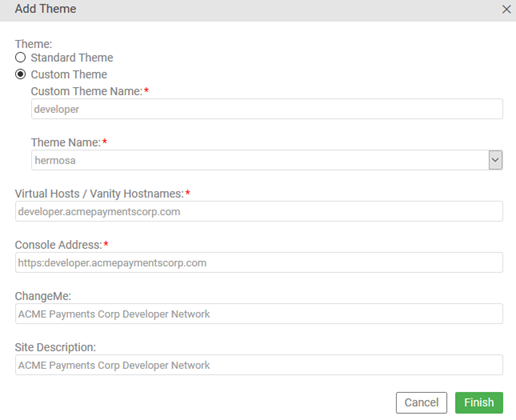
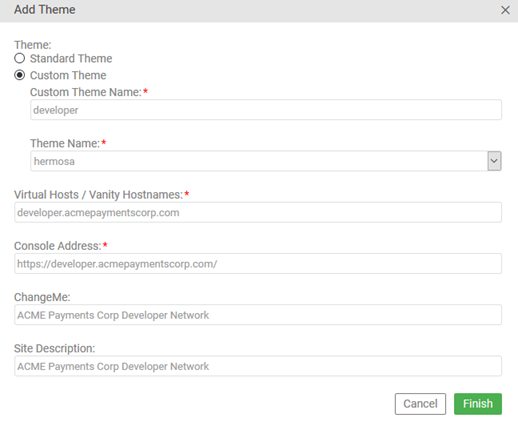
ATMO-31831 edits from AB w/queries

diff --git a/cm/customization/customize_example_separate_themes.htm b/cm/customization/customize_example_separate_themes.htm
@@ -10,7 +10,7 @@ type: page
 nav-title: Customization Example - Separate Themes
 ---
 <h1 id="top">Community Manager Customization Use Case: Separating the Developer Portal and Admin Portal Themes</h1>
-<p>Use case describing the steps required to separate a customized Developer theme from the theme being used on the Admin Portal.</p>
+<p>Use case describing the steps required to create <strong>developer</strong> theme and <strong>admin</strong> theme, both extending from Hermosa theme. The <strong>developer</strong> theme has customization and the <strong>admin</strong> theme does not have customization.</p>
 <hr class="divide_hr" />
 
 
@@ -28,30 +28,37 @@ nav-title: Customization Example - Separate Themes
 
 
 <h2 id="overview">Overview</h2>
-<p>The following instructions describe the steps to take in a sample use case where:</p>
+<p>The following instructions describe the steps to take in a sample use case where&nbsp;there are two themes:	</p>
 <ul>
-	<li>There are two themes, one for developers (Developer) and one for admins (Admin Portal).</li>
-	<li>Customization is in place.</li>
-	<li>You want to separate out the Developer theme, which is customized, and the Admin Portal theme, which will now use the Hermosa Theme template without customization.</li>
+<li>	One for Site Administrators, using Hermosa theme. Customization is optional.</li>
+<li>One for all other users (mainly app developers), using Hermosa theme, with customization.</li>
 </ul>
-<p>These instructions apply to the Akana developer portal, 2019.1.x release.</p>
-<p><strong>Note</strong>: It's important that the Admin Portal is accessible at all times. If possible, assign the IP address for the Admin Portal to the default theme, so that if there are any issues when modifying the theme, the Admin Portal will be accessible.</p>
-<p>If the developer portal is accessible using the IP address, modify the virtual host for the Admin portal on the default theme.</p>
-<p>{<span class="apidoc_red">CR01: don't understand the above. We said we're using Hermosa Theme. By Default Theme, does this mean Hermosa here?</span>}</p>
-<p>The steps below describe how to separate out the two themes for each of the portals.</p>
 <p><a href="#top">Back to top</a></p>
 
 
 
 <h2 id="backup_prep">Backup and Preparation</h2>
-<p>The first step is preparation so that if anything goes wrong you can revert to the previous state. Follow the steps below.</p>
+<p>It's important to be prepared so that if anything goes wrong you can revert to the previous state, or fix as needed.</p>
+
+
+<h3 id="backup">Preparation:</h3>
+<ol>
+	<li>It's important that the Admin Portal is accessible at all times. In case there is any error or issue with creating new themes, this is the back door so that you can fix as needed. One easy way to do is to add a Default theme and assign a virtual host with Site Admin domain access which will not be used in the new themes. The virtual host should be unique per theme. If you already have a Default theme, make sure Site Admin access is available.</li>
+	<li>The new <strong>developer</strong> and <strong>admin</strong> themes must have unique virtual host names. Make sure you have you have them ready.<strong> <span class="apidoc_red">“admin” theme Virtual Host names should be configured to Site Admin Domains</span>.</strong></li>
+</ol>
+
+
+<h3 id="preparation">Backup:</h3>
+<p> To back up the existing files, follow the steps below.</p>
 <ol>
 	<li>Log in to the Admin Portal.</li>
 	<li>Go to <strong>Admin</strong> &gt; <strong>Config</strong> &gt; <strong>Resources</strong>.</li>
 	<li>In the <strong>Resources</strong> section, click <strong>File Manager</strong>. Download the customization files to a safe location.	</li>
 	<li>In <strong>Admin</strong> &gt; <strong>Site</strong>:
 <ul>
-			<li>Do <strong>not</strong> delete the existing Default and Hermosa themes.</li>
+			<li>Make sure you added out-of-the-box Hermosa theme as one of the themes. This is required to support extending from Hermosa theme. This dependency will be removed from 2019.1.11. {<span class="apidoc_red">AB: you're not talking about the installation option... right? Please clarify what the change is.</span>}</li>
+			<li>If the Virtual Host/Vanity Hostnames which we will be using for new <strong>admin</strong> theme and“<strong>developer</strong> theme are already in use for any other themes, make sure you delete them from those themes. The virtual host should be unique per theme. {<span class="apidoc_red">AB: should be, or must be?</span>}</li>
+			<li>Delete all the directories in /theme/ directory. <span class="apidoc_red"><strong>Usually you may /default and /hermosa directories</strong></span> in theme directory. {<span class="apidoc_p_subsequent">query wording</span>}</li>
 			<li>For the Default Theme that's used for the Admin Portal, change the name in the <strong>Virtual Host/Vanity Hostnames column</strong>.</li>
 		</ul>
 		</li>
@@ -61,19 +68,20 @@ nav-title: Customization Example - Separate Themes
 
 
 <h2 id="changethemes">Change the Themes</h2>
-<p>When changing themes, do one theme at a time. Make sure you always have access to the Developer theme. {<span class="apidoc_red">CR 02: in the first section we said make sure they always have access to the Admin Portal. Which is more important?</span>}</p>
+<p>When changing themes, do one theme at a time. Make sure you always have access to the theme which has Site Admin access. In this use case, it is the Default theme (Preparation step 1).</p>
 <ol>
 	<li>Log in to the Admin Portal.</li>
 	<li>Go to the <strong>Admin</strong> > <strong>Site</strong> page.</li>
-	<li>Add a new custom theme for the Developer Portal:
+	<li>Add a new custom theme for developers:
 		<ul>
 			<li>Enter a Custom Theme Name: <strong>developer</strong> (all lower case is the naming convention).</li>
 			<li>Select the Theme Name: hermosa.</li>
-			<li>Enter all the virtual host details for the Developer Portal.</li>
-			<li>Enter the Console Address for the Developer Portal.</li>
+			<li>Enter all the virtual host details for the <strong>developer</strong> theme.</li>
+			<li>Enter the Console Address for the <strong>developer</strong> theme.</li>
 			<li>Enter a Site Title and Description.</li>
+			<li>Access the <strong>developer</strong> theme and make sure everything is working.</li>
 			</ul>
-		<p>An example of the configuration for the Developer Portal is shown below: {<span class="apidoc_red">CR03. In the  Add Theme overlay, the helper text and the tooltip both say to include the  trailing backslash at the end. But your examples don&rsquo;t include that. Does it  matter?</span>} </p>
+		<p>An example of the configuration for the Developer Portal is shown below:  {<span class="apidoc_red">AB I updated with the slash but will have to do it again...&nbsp;need the field label change</span>}</p>
 		<p><img src="uc_separate_themes/custom_eg_create_theme_developer.png"alt="adding the Developer theme"/></p>
 	</ul></li>
 	<li>Add a theme for the Admin Portal:
@@ -81,23 +89,36 @@ nav-title: Customization Example - Separate Themes
 	<ul>
 		<li>Enter a Custom Theme Name: <strong>admin</strong> (all lower case is the naming convention).</li>
 		<li>Select the Theme Name: hermosa.</li>
-		<li>Enter all the virtual host details for the Admin Portal.</li>
-		<li>Enter the Console Address for the Admin Portal.</li>
+		<li>Enter all the virtual host details for the <strong>admin</strong> theme.</li>
+		<li>Enter the Console Address for the <strong>admin</strong> theme.</li>
 		<li>Enter a Site Title and Description.</li>
+		<li>Access the <strong>admin</strong> theme and make sure everything is working.</li>
 	</ul>
-	<p>An example of the configuration for the Admin Portal is shown below:</p>
+	<p>An example of the configuration for the Admin Portal is shown below: {<span class="apidoc_red">image update below is to do when field label change is done</span>}</p>
 	<p><img src="uc_separate_themes/custom_eg_create_theme_admin.png"alt="adding the Admin theme"/></p></ul></li>
-	<li>For the Admin Portal, add the directories for the customization files:
+	<li>For the <strong>developer</strong> theme customizations:
 		<ul>
 			<li>Go to <strong>Admin</strong> &gt; <strong>Config</strong> &gt; <strong>Resources</strong>.</li>
 			<li>In the <strong>Resources</strong> section, click <strong>File Manager</strong>. Navigate to the <strong>theme</strong> directory.</li>
-			<li>If the hermosa folder exists, rename this folder to <strong>developer</strong> (the same as the theme created above).</li>
-			<li>If the hermosa folder does not exist, create a theme/developer folder structure and upload the customization zip file that you downloaded in <a href="#backup_prep">Backup and Preparation</a> above.</li>
-			<li>If the hermosa folder did not exist, rebuild styles for the developer theme only.</li>
+			<li>Create a <strong>theme/developer</strong> folder structure, and then upload the customization files you require for the <strong>developer</strong> theme.
+				<p><strong>Note</strong>: Don’t upload the entire ZIP file that you downloaded in <a href="#backup_prep">Backup and Preparation</a> above. The ZIP file might contain “<strong>theme/hermosa</strong>” and “<strong>theme/default</strong>” directories, and if you upload these you will customze the out-of-the-box Hermosa theme and out-of-the-box Default theme.</p></li>
+			<li>Rebuild styles for the <strong>developer</strong> theme, only if you have custom.less in your customization files.</li>
 			</ul>
-	<p>After creating the additional themes, the Site Themes should look similar to the below:</p>
+	<p>After creating the additional themes, the Site Themes should look similar to the below: {<span class="apidoc_red">AB: You said the screenshot is incorrect. Need help with this part.</span>}</p>
 	<p><img src="uc_separate_themes/custom_eg_themes_list.png"alt="themes list"/></p>
 	</li>
+	<li>Optional: if needed, customize the <strong>admin</strong> theme also. See <a href="#xxx">xxx</a> below.</li>
+</ol>
+	<h4 id="">Optional: customizing the admin theme</h4>
+<ol>
+	
+		<li>Go to <strong>Admin</strong> &gt; <strong>Config</strong> &gt; <strong>Resources</strong>.</li>
+			<li>In the <strong>Resources</strong> section, click <strong>File Manager</strong>. Navigate to the <strong>theme</strong> directory.</li>
+			<li>Create a <strong>theme/admin</strong> folder structure, and then upload the customization files you require for the <strong>admin</strong> theme.
+				<p><strong>Note</strong>: Don’t upload the entire ZIP file that you downloaded in <a href="#backup_prep">Backup and Preparation</a> above. The ZIP file might contain “<strong>theme/hermosa</strong>” and “<strong>theme/default</strong>” directories, and if you upload these you will customze the out-of-the-box Hermosa theme and out-of-the-box Default theme.</p>
+			</li>
+			<li>Rebuild styles for the <strong>developer</strong> theme, only if you have custom.less in your customization files.</li>
+		<li></li>
 </ol>
 <p><a href="#top">Back to top</a></p>
 
@@ -112,6 +133,7 @@ nav-title: Customization Example - Separate Themes
 
 
 <h2 id="email_templates">Email Templates</h2>
+<p>{<span class="apidoc_red">AB: can this entire section just come out, for 2019.1.11 and later?</span>}</p>
 <p>In this use case, since both the Developer and the Admin portals are using the Hermosa theme, not Default theme, you will also need to add the email template variables, to the THEME_IMPL_PROPERTIES table. Each of the templates that exist should be inserted for a THEMEIMPL set to hermosa.</p>
 <p>{<span class="apidoc_red">CR04: is this only because this customer has customized email templates? Or is this general to setting up custom themes?</span>}</p>
 <p>An example query is shown below. Run this query to insert all the values for the hermosa theme.</p>
